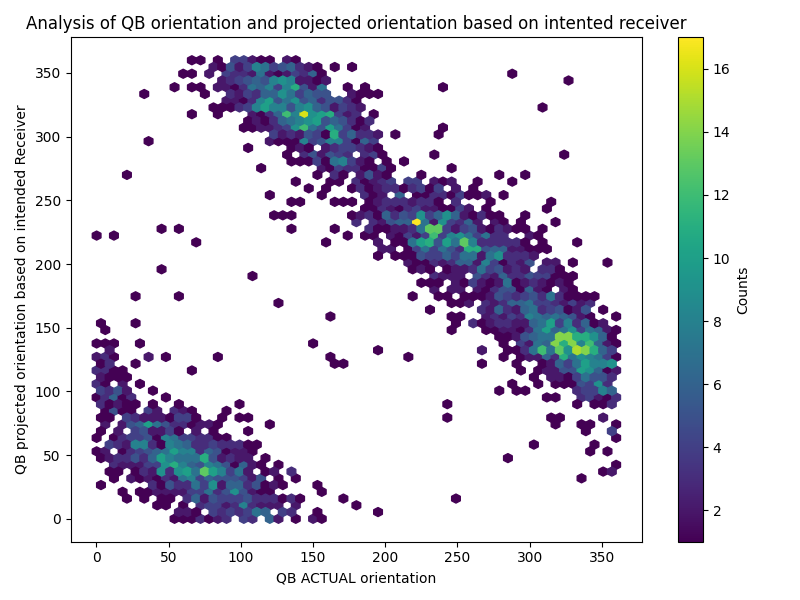
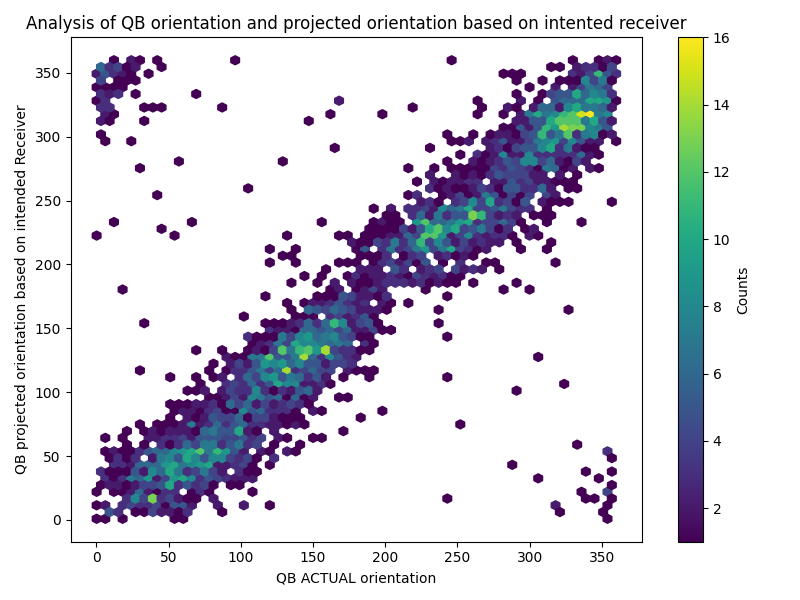
isac can do this

diff --git a/visu.py b/visu.py
@@ -13,13 +13,13 @@ if torch.cuda.is_available():
 else:
   DEVICE = torch.device("cpu")
 
-MODEL_FILE = "models/datasetsAlpha/model_variant5_lr_0.01_n_250000.pkl"
+MODEL_FILE = "models/datasetsAlpha/model_variant5_lr_0.01_n250000.pkl"
 
 RECEIVER_TYPES = ["WR", "TE", "QB", "RB", "FB"]
 
 def get_model_prediction_for_receiver(dataset, receiver, model_file, frameId):
     output_dim = 1
-    x = dataset.get_orientation_based_on_receiver(receiver, frameId, output_dim = 1)
+    x = dataset.get_orientation_based_on_receiver(receiver, frameId, output_dim = 1).float().unsqueeze(0)
 
     state = torch.load(model_file, map_location=DEVICE)
     model = DeepQBVariant1(input_dim=dataset.col_size - output_dim, output_dim=output_dim)
@@ -29,6 +29,21 @@ def get_model_prediction_for_receiver(dataset, receiver, model_file, frameId):
     y_hat = model(x)
     prob = torch.sigmoid(y_hat) 
     return prob.item()
+
+def get_frames_indexes(play_data):
+    play_data.reset_index(inplace=True)
+    play_data = play_data.sort_values('frameId')
+    ball_snap_data = play_data[play_data["event"] == "ball_snap"]
+    pass_forward_data = play_data[play_data["event"] == "ball_snap"]
+    
+    qb_frames_start = None
+    qb_frames_end = None
+    if len(ball_snap_data):
+        qb_frames_start = play_data[play_data["event"] == "ball_snap"].iloc[0]["frameId"] + 1
+    if len(pass_forward_data):
+        qb_frames_end = play_data[play_data["event"] == "pass_forward"].iloc[0]["frameId"] + 1
+
+    return qb_frames_start, qb_frames_end
 
 def get_receiver_type():
     pass
@@ -151,6 +166,11 @@ def animate_play(game_id: int, play_id: int,
     
     # Get data for this play
     play_data = get_play_data(game_id, play_id, df_tracking, df_players, df_plays, df_games)
+
+    # getting qb frames
+    qb_frames_start, qb_frames_end = get_frames_indexes(play_data)
+    range_set = set(list(range(qb_frames_start, qb_frames_end+1)))
+    INDEX = 0
     
     # Get play phases
     phases = get_play_phases(play_data)
@@ -253,9 +273,21 @@ def animate_play(game_id: int, play_id: int,
     def update(frame: int) -> List:
         """Update player positions for each frame."""
         frame_data = play_data[play_data['frameId'] == frame]
+
+        # Update title with play phase
+        phase = "Pre-snap"
+        if 'snap' in phases and frame >= phases['snap']:
+            phase = "Post-snap"
+        if 'end' in phases and frame >= phases['end']:
+            phase = "Play Complete"
+
+
+        # only getting probabilities for when the qb got the ball in hands
         probs = []
-        for receiver in range(5):
-            probs.append(get_model_prediction_for_receiver(dataset, receiver, MODEL_FILE, frame))
+        if frame in range_set:
+            for receiver in range(5):
+                probs.append(get_model_prediction_for_receiver(dataset, receiver, MODEL_FILE, INDEX))
+                INDEX += 1
 
         # Separate players and football
         players_data = frame_data[
@@ -284,6 +316,9 @@ def animate_play(game_id: int, play_id: int,
             label.remove()
         player_labels.clear()
         
+        title.set_text(f"{title_text}\nPhase: {phase}")
+
+        
         for idx, row in players_data.iterrows():
             if show_labels == 'number':
                 try:
@@ -293,7 +328,7 @@ def animate_play(game_id: int, play_id: int,
                     label_text = '?'
             else:  # position
                 label_text = row['position']
-                if label_text in RECEIVER_TYPES and not phase == "Pre-snap":
+                if label_text in RECEIVER_TYPES and frame in range_set:
                     receiver_type = get_receiver_type(row)
                     label_text = probs[receiver_type]
             
@@ -309,16 +344,7 @@ def animate_play(game_id: int, play_id: int,
             football.set_visible(True)
         else:
             football.set_visible(False)
-        
-        # Update title with play phase
-        phase = "Pre-snap"
-        if 'snap' in phases and frame >= phases['snap']:
-            phase = "Post-snap"
-        if 'end' in phases and frame >= phases['end']:
-            phase = "Play Complete"
-        
-        title.set_text(f"{title_text}\nPhase: {phase}")
-        
+                
         # Update event text
         current_event = frame_data['event'].iloc[0] if not frame_data['event'].isna().all() else ""
         if current_event:

diff --git a/test.py b/test.py
@@ -82,11 +82,19 @@ def shoulder_orientation_feature_correlation_analysis():
             dx = x_receiver - x_qb
             dy = y_receiver - y_qb
 
-            projected = (np.degrees(np.arctan2(dy, dx))) % 360
+            projected = (90 - np.degrees(np.arctan2(dy, dx))) % 360
             projected_orientations.append(projected)
             qb_orientation = row["qb_orientation"]
             orientation.append(qb_orientation)
-            differences.append(abs(projected - qb_orientation))
+            diff = abs(projected - qb_orientation)
+            differences.append(diff)
+
+            if diff >= 100 and diff < 300:
+                with open("moreAnalysis/angleAnalysisOutliers.txt", "a") as file:
+                    file.write(f">= 100 and < 300 playId: {row['playId']} - gameId: {row['gameId']} - diff: {diff}\n")
+            if diff >= 300:
+                with open("moreAnalysis/angleAnalysisOutliers.txt", "a") as file:
+                    file.write(f"diff >= 300 playId: {row['playId']} - gameId: {row['gameId']} - diff: {diff}\n")
 
 
     plt.figure(figsize=(8, 6))
@@ -174,7 +182,7 @@ def getting_time_series_analysis_multi_class_classification(model_file):
 def getting_time_series_analysis_for_each_receiver(model_file):
     pass
 
-# shoulder_orientation_feature_correlation_analysis()
+shoulder_orientation_feature_correlation_analysis()
 # further_analysis_results_variant_two("models/model_variant2_lr0.01_n250000.pkl")
 
 # for filename in os.listdir("models"):

diff --git a/data.py b/data.py
@@ -102,6 +102,8 @@ class PlaysData(Dataset):
         self.data["result"] = []
         if self.passed_extra:
             self.data["passResultExtra"] = []
+            self.data["gameId"] = []
+            self.data["playId"] = []
     
     def process_frames_of_play(self):
 
@@ -232,6 +234,8 @@ class PlaysData(Dataset):
 
             if self.passed_extra:
                 self.data["passResultExtra"].append(play_info.iloc[0]['passResult'])
+                self.data["playId"].append(playId)
+                self.data["gameId"].append(gameId)
             if self.v == 1 or self.v == 4:
                 self.data["result"].append(targetedReceiver)
             elif self.v == 2:
@@ -357,8 +361,9 @@ class PlaysData(Dataset):
             plt.clf()
 
 
-    def get_orientation_based_on_receiver(self, receiver, frameId, output_dim):
-        row = self.data.iloc[frameId-1, :-output_dim]
+    def get_orientation_based_on_receiver(self, receiver, index, output_dim):
+        print("frame", index)
+        row = self.data.iloc[index, :-output_dim]
         x_qb = row["qb_x"]
         y_qb = row["qb_y"]
         x_receiver = row[f"x_{receiver}"]
@@ -367,7 +372,7 @@ class PlaysData(Dataset):
         dx = x_receiver - x_qb
         dy = y_receiver - y_qb
 
-        row["qb_orientation"] = (np.degrees(np.arctan2(dy, dx))) % 360
+        row["qb_orientation"] = (90 - np.degrees(np.arctan2(dy, dx))) % 360
 
         return torch.tensor(row)
 
